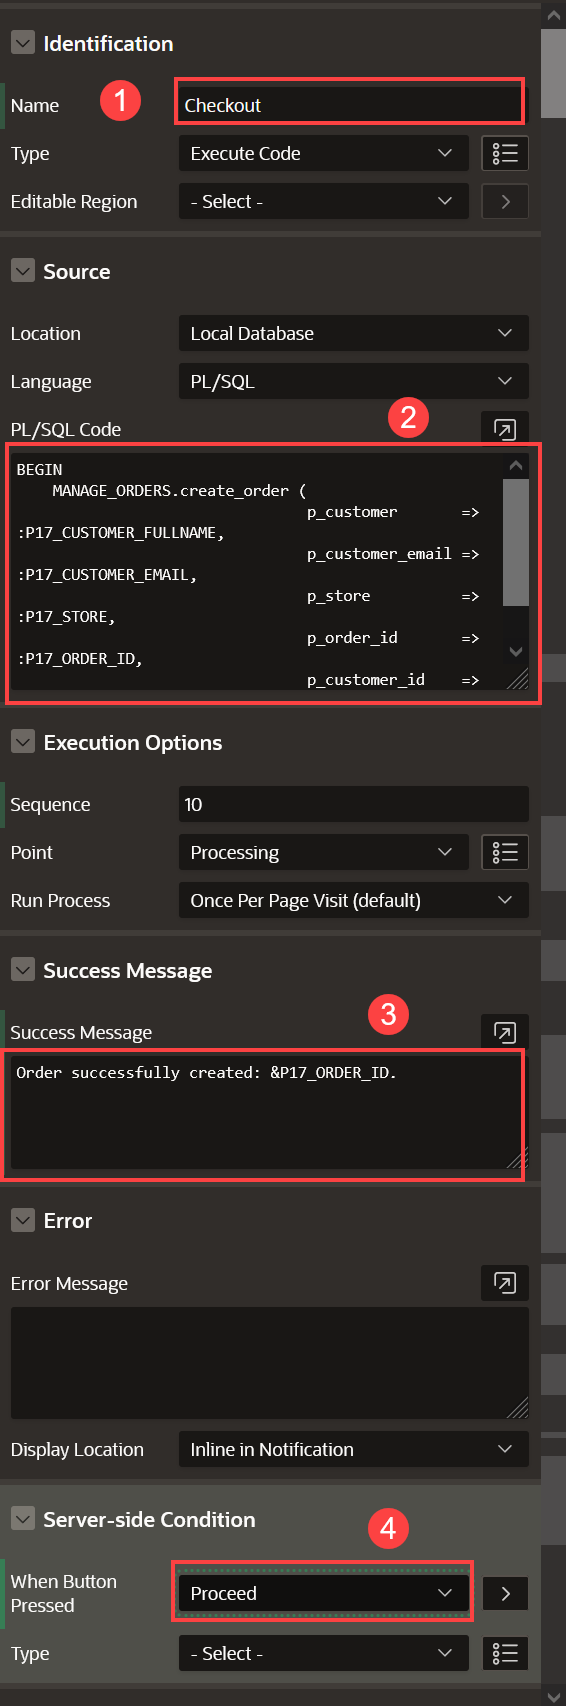
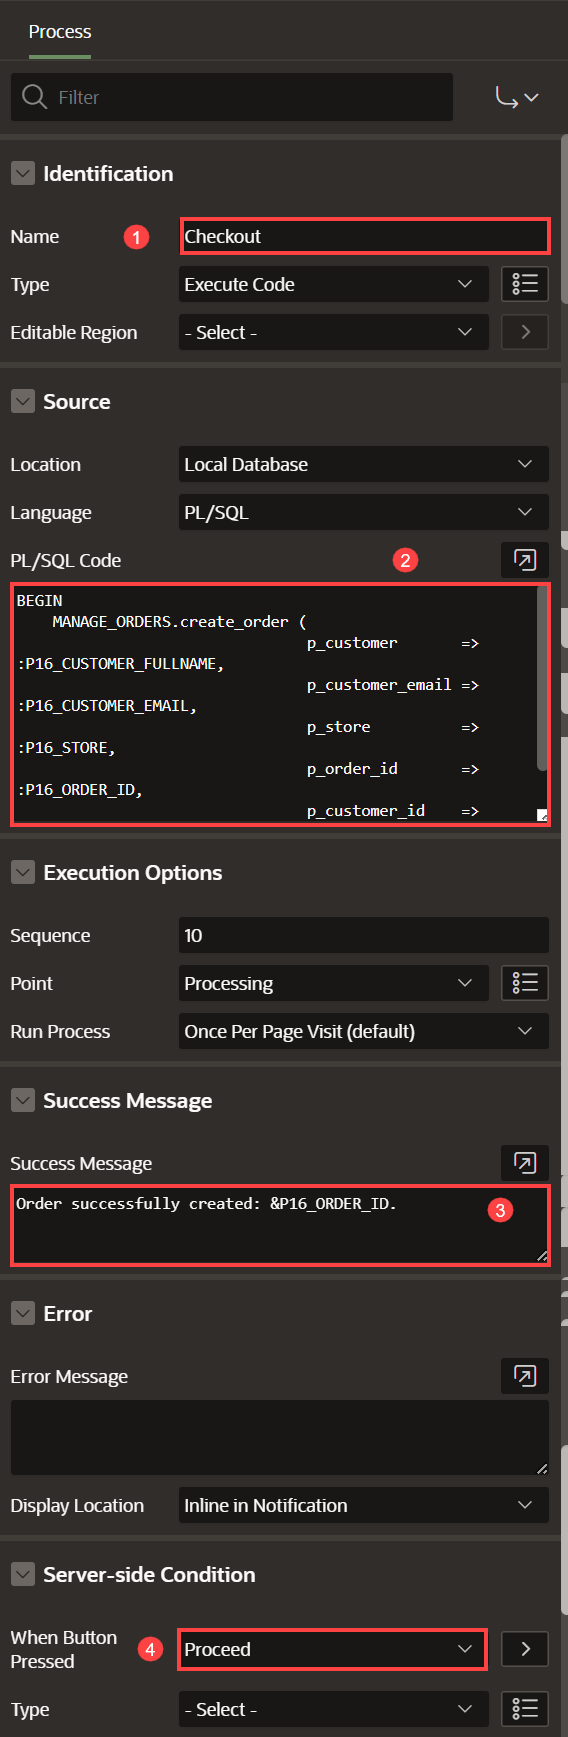
Feedback updated for 22.1

diff --git a/shopping-cart/creating-shopping-cart/creating-shopping-cart.md b/shopping-cart/creating-shopping-cart/creating-shopping-cart.md
@@ -306,11 +306,11 @@ This configures the (Edit) button to open page 18, passing the value of the PROD
         <copy>
         BEGIN
             MANAGE_ORDERS.create_order (
-                                        p_customer       => :P17_CUSTOMER_FULLNAME,
-                                        p_customer_email => :P17_CUSTOMER_EMAIL,
-                                        p_store          => :P17_STORE,
-                                        p_order_id       => :P17_ORDER_ID,
-                                        p_customer_id    => :P17_CUSTOMER_ID);   
+                                        p_customer       => :P16_CUSTOMER_FULLNAME,
+                                        p_customer_email => :P16_CUSTOMER_EMAIL,
+                                        p_store          => :P16_STORE,
+                                        p_order_id       => :P16_ORDER_ID,
+                                        p_customer_id    => :P16_CUSTOMER_ID);   
         END;                                    
         </copy>
         ```
@@ -481,6 +481,6 @@ You now know how to add validations, processes, branches, and dynamic actions to
 
 ## Acknowledgments
 
-- **Author** - Apoorva Srinivas, Senior Product Manager
-- **Contributors** - Shakeeb Rahman, Architect; Mónica Godoy, Principal Product Manager
+- **Author** - Apoorva Srinivas, Senior Product Manager; Mónica Godoy, Principal Product Manager
+- **Contributors** - Shakeeb Rahman, Architect
 - **Last Updated By/Date** - Apoorva Srinivas, Senior Product Manager, July 2022

diff --git a/shopping-cart/creating-add-to-cart-page/creating-add-to-cart-page.md b/shopping-cart/creating-add-to-cart-page/creating-add-to-cart-page.md
@@ -104,7 +104,7 @@ This region allows users to review the details of the product, such as brand, pr
         - For Source - select **BLOB Column**
         - For BLOB Column - select **PRODUCT_IMAGE**
         - For Position - select **First**
-        - For Appearance - select **Square**
+        - For Appearance - select **Auto**
         - For Sizing - select **Fit**
           ![](./images/attributes3.png " ")
     - Under Card section:
@@ -392,6 +392,6 @@ You now know how to customize and enhance an APEX page. You may now **proceed to
 
 ## Acknowledgments
 
-- **Author** - Apoorva Srinivas, Senior Product Manager
-- **Contributors** - Shakeeb Rahman, Architect; Mónica Godoy, Principal Product Manager
+- **Author** - Apoorva Srinivas, Senior Product Manager; Mónica Godoy, Principal Product Manager
+- **Contributors** - Shakeeb Rahman, Architect
 - **Last Updated By/Date** - Apoorva Srinivas, Senior Product Manager, July 2022

diff --git a/shopping-cart/improving-products/improving-products.md b/shopping-cart/improving-products/improving-products.md
@@ -259,6 +259,6 @@ You now know how to enhance faceted search and cards region. You may now **proce
 
 ## Acknowledgments
 
-- **Author** - Apoorva Srinivas, Senior Product Manager
-- **Contributors** - Shakeeb Rahman, Architect; Monica Godoy, Principal Product Manager
+- **Author** - Apoorva Srinivas, Senior Product Manager; Monica Godoy, Principal Product Manager
+- **Contributors** - Shakeeb Rahman, Architect
 - **Last Updated By/Date** - Apoorva Srinivas, Senior Product Manager, July 2022

diff --git a/shopping-cart/intro/intro.md b/shopping-cart/intro/intro.md
@@ -68,6 +68,5 @@ In this lab, you will:
 
 ## Acknowledgments
 
-- **Author** - Apoorva Srinivas, Senior Product Manager
-- **Contributors** - Mónica Godoy, Principal Product Manager
-- **Last Updated By/Date** - Arabella Yao, Database Product Manager, October 2021
+- **Author** - Apoorva Srinivas, Senior Product Manager; Mónica Godoy, Principal Product Manager
+- **Last Updated By/Date** - Apoorva Srinivas, Senior Product Manager, August 2022

diff --git a/shopping-cart/adding-columns/adding-columns.md b/shopping-cart/adding-columns/adding-columns.md
@@ -226,6 +226,5 @@ You now know how to add new columns to your existing tables, how to create looku
 
 ## Acknowledgments
 
-- **Author** - Apoorva Srinivas, Senior Product Manager
-- **Contributor** - Mónica Godoy, Principal Product Manager
+- **Author** - Apoorva Srinivas, Senior Product Manager; Mónica Godoy, Principal Product Manager; 
 - **Last Updated By/Date** - Apoorva Srinivas, Senior Product Manager, July 2022

diff --git a/shopping-cart/create-app/create-app.md b/shopping-cart/create-app/create-app.md
@@ -236,6 +236,5 @@ You now know how to create an application with a number of different page types 
 
 ## Acknowledgments
 
-- **Author** - Apoorva Srinivas, Senior Product Manager
-- **Contributor** - Mónica Godoy, Principal Product Manager
+- **Author** - Apoorva Srinivas, Senior Product Manager; Mónica Godoy, Principal Product Manager;
 - **Last Updated By/Date** - Apoorva Srinivas, Senior Product Manager, July 2022

diff --git a/shopping-cart/creating-orders-page/creating-order-page.md b/shopping-cart/creating-orders-page/creating-order-page.md
@@ -191,6 +191,5 @@ You now know how to add a new page to your existing APEX Application and add reg
 
 ## Acknowledgments
 
-- **Author** - Apoorva Srinivas, Senior Product Manager
-- **Contributor** - Mónica Godoy, Principal Product Manager
+- **Author** - Apoorva Srinivas, Senior Product Manager; Mónica Godoy, Principal Product Manager 
 - **Last Updated By/Date** - Apoorva Srinivas, Senior Product Manager, July 2022

diff --git a/shopping-cart/creating-db-objects/creating-db-objects.md b/shopping-cart/creating-db-objects/creating-db-objects.md
@@ -239,6 +239,5 @@ You now know how to create a package to manage the shopping cart. In the followi
 
 ## Acknowledgments
 
-- **Author** - Apoorva Srinivas, Senior Product Manager
-- **Contributor** - Mónica Godoy, Principal Product Manager
+- **Author** - Apoorva Srinivas, Senior Product Manager; Mónica Godoy, Principal Product Manager
 - **Last Updated By/Date** - Apoorva Srinivas, Senior Product Manager, July 2022

diff --git a/shopping-cart/improving-app/improving-app.md b/shopping-cart/improving-app/improving-app.md
@@ -121,6 +121,5 @@ You now know how to enhance and maintain both navigation menu and navigation bar
 
 ## Acknowledgments
 
-- **Author** - Apoorva Srinivas, Senior Product Manager
-- **Contributors** - Monica Godoy, Principal Product Manager
+- **Author** - Apoorva Srinivas, Senior Product Manager; Monica Godoy, Principal Product Manager
 - **Last Updated By/Date** - Apoorva Srinivas, Senior Product Manager, July 2022

diff --git a/shopping-cart/installing-sample-tables/installing-sample-tables.md b/shopping-cart/installing-sample-tables/installing-sample-tables.md
@@ -55,6 +55,5 @@ This completes Lab 1. You now know how to install a sample dataset. You may now 
 
 ## Acknowledgments
 
-- **Author** - Apoorva Srinivas, Senior Product Manager
-- **Contributor** - Mónica Godoy, Principal Product Manager
+- **Author** - Apoorva Srinivas, Senior Product Manager; Mónica Godoy, Principal Product Manager 
 - **Last Updated By/Date** - Apoorva Srinivas, Senior Product Manager, July 2022
